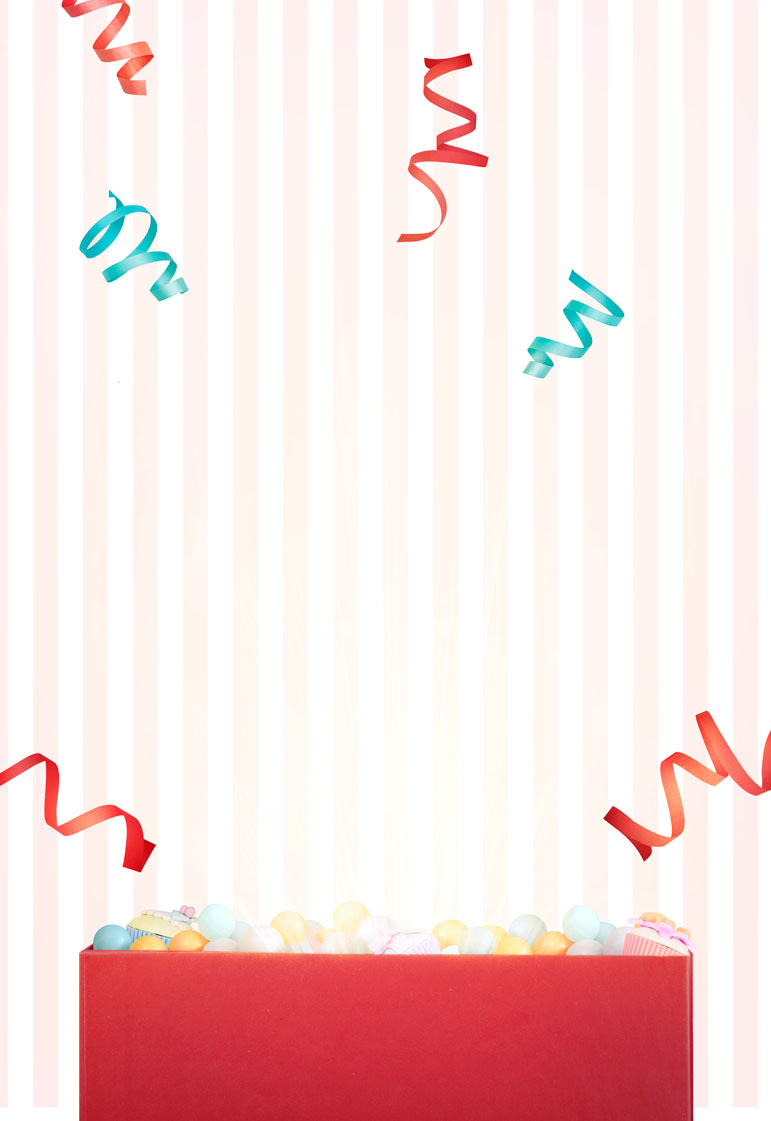
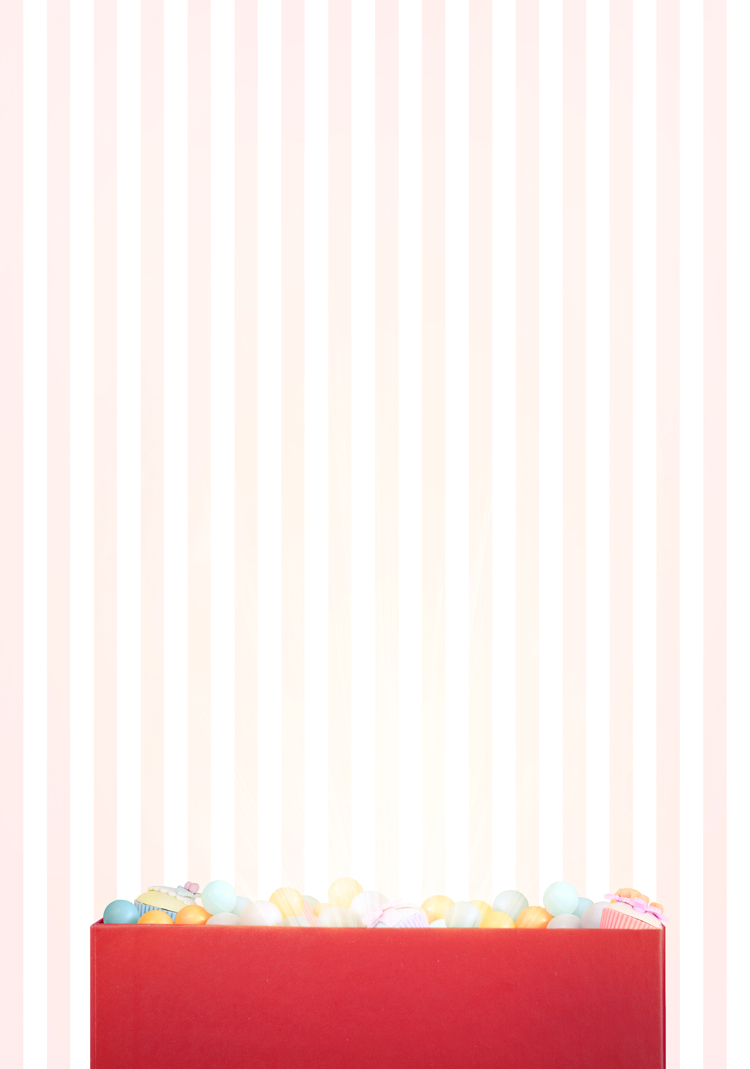
Add files via upload

diff --git a/Yen_S_7/Seg1/Seg1.html b/Yen_S_7/Seg1/Seg1.html
@@ -96,13 +96,47 @@ p {
   right: 7%;
   animation-delay: 1.8s;
 }
+.c{
+  width: 25%;
+  animation: confetti 2s ease-in-out infinite alternate;
+  z-index: 9;
+}
+.c1 {
+  top: -6%;
+  left: -4%;
+}
+.c2 {
+  top: 3%;
+  left: 45%;
+  animation-delay: 2s;
+}
+.c3 {
+  top: 16%;
+  left: 5%;
+  animation-delay: 0.5s;
+}
+.c4 {
+  top: 22%;
+  right: 13%;
+  animation-delay: .2s;
+}
+.c5 {
+  top: 66%;
+  left: -5%;
+  animation-delay: 2.5s;
+}
+.c6 {
+  top: 64%;
+  right: -2%;
+  animation-delay: 1.8s;
+}
 p {
   margin: 6px 0;
   font-size: 18px;
   color: #69747a;
 }
 .text-box {
-  bottom: 27%;
+  bottom: 26%;
   left: 50%;
   text-align: center;
   width: 30%;
@@ -110,6 +144,12 @@ p {
 }
 .bgm{
   display: none;
+}
+.tbox {
+  bottom: 23%;
+  width: 50%;
+  left: 50%;
+  margin-left: -25%;
 }
 @media screen and (max-width:979px){
 .container {
@@ -126,7 +166,7 @@ p {
   color: #4d4d4d;
 }
 .text-box {
-  bottom: 27.5%;
+  bottom: 24.5%;
   width: 50%;
   margin-left: -25%;
 }
@@ -140,7 +180,7 @@ p {
 
 
 .hbd {
-  top: 45%;
+  top: 40%;
 }
 .s1 {
   top: 11%;
@@ -179,6 +219,13 @@ p {
         <img src="img/s4.png" class="pabsolute s s4">
         <img src="img/s5.png" class="pabsolute s s5">
         <img src="img/s6.png" class="pabsolute s s6">
+        <img src="img/c1.png" class="pabsolute c c1">
+        <img src="img/c2.png" class="pabsolute c c2">
+        <img src="img/c3.png" class="pabsolute c c3">
+        <img src="img/c4.png" class="pabsolute c c4">
+        <img src="img/c5.png" class="pabsolute c c5">
+        <img src="img/c6.png" class="pabsolute c c6">
+        <img src="img/tbox.png" class="pabsolute tbox">
         <div class="pabsolute text-box">
           <p>Celebrate every sweet<br> moment with your child<br> on this special day</p>
         </div>
